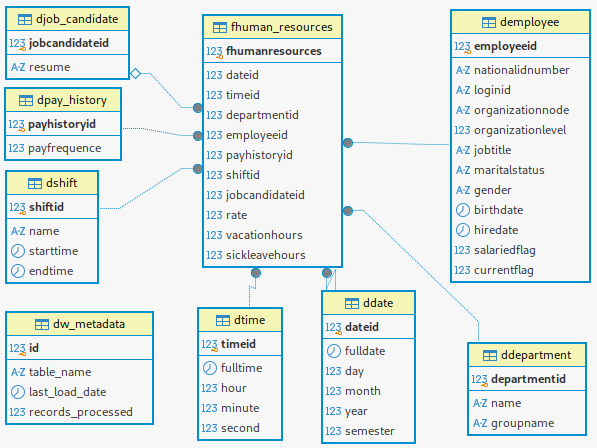
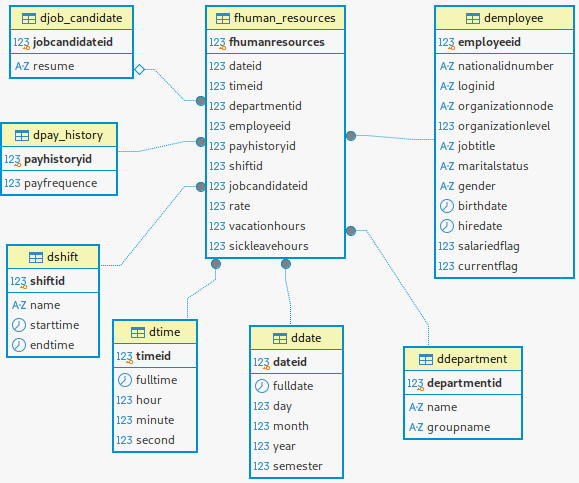
correção de problemas e melhorias

diff --git a/dags/dag_carga_dimensoes.py b/dags/dag_carga_dimensoes.py
@@ -1,6 +1,7 @@
 from datetime import datetime, timedelta
 import pandas as pd
 from airflow.decorators import dag, task
+from airflow.models import Variable
 from airflow.providers.microsoft.mssql.hooks.mssql import MsSqlHook
 from airflow.providers.postgres.hooks.postgres import PostgresHook
 
@@ -75,7 +76,10 @@ def pipeline_dimensoes():
         sql_hook = MsSqlHook(mssql_conn_id='sqlserver_oltp')
         pg_hook = PostgresHook(postgres_conn_id='postgres_olap')
 
-        query = """
+        ultima_data_func = Variable.get("ultima_data_carga_funcionarios", default_var="1900-01-01")
+        print(f"Buscando funcionários modificados após: {ultima_data_func}")
+
+        query = f"""
             SELECT
                 BusinessEntityID as EmployeeID,
                 NationalIDNumber,
@@ -89,9 +93,16 @@ def pipeline_dimensoes():
                 HireDate,
                 SalariedFlag,
                 CurrentFlag
-            FROM HumanResources.Employee;
+            FROM HumanResources.Employee
+            WHERE ModifiedDate > '{ultima_data_func}';
         """
+
         df = sql_hook.get_pandas_df(query)
+
+        if df.empty:
+            print("Nenhum dado novo encontrado para funcionários.")
+            return "Funcionários atualizados (Sem dados novos)"
+
         if not df.empty:
             df['LoginID'] = df['LoginID'].str.strip()
             df['JobTitle'] = df['JobTitle'].str.strip()
@@ -110,12 +121,18 @@ def pipeline_dimensoes():
             df = df[colunas_ordenadas]
             registros = df.to_records(index=False).tolist()
 
-            pg_hook.run("TRUNCATE TABLE dw.demployee RESTART IDENTITY CASCADE;")
             pg_hook.insert_rows(
                 table='dw.demployee',
                 rows=registros,
-                target_fields=colunas_ordenadas
+                target_fields=colunas_ordenadas,
+                replace=True,
+                replace_index='EmployeeID'
             )
+
+            nova_data_limite = datetime.now().strftime("%Y-%m-%d %H:%M:%S")
+            Variable.set("ultima_data_carga_funcionarios", nova_data_limite)
+            print(f"Variável 'ultima_data_carga_funcionarios' atualizada para: {nova_data_limite}")
+
         return "Funcionários carregados!"
 
     @task
@@ -133,7 +150,6 @@ def pipeline_dimensoes():
                 'Semester': (dates.month - 1) // 6 + 1
             })
             registros = df.to_records(index=False).tolist()
-            # Omitimos o DateID no target_fields pois ele é serial (gerado automaticamente pelo banco)
             pg_hook.insert_rows(
                 table='dw.ddate',
                 rows=registros,
@@ -155,7 +171,6 @@ def pipeline_dimensoes():
                 'Second': times.second
             })
             registros = df.to_records(index=False).tolist()
-            # Omitimos o TimeID no target_fields pois ele é serial (gerado automaticamente pelo banco)
             pg_hook.insert_rows(
                 table='dw.dtime',
                 rows=registros,
@@ -183,7 +198,6 @@ def pipeline_dimensoes():
             )
         return "Candidato padrão carregado!"
 
-    # Orquestração das tarefas
     dep = carregar_departamentos()
     shift = carregar_turnos()
     pay = carregar_pagamentos()

diff --git a/dags/dag_carga_fato.py b/dags/dag_carga_fato.py
@@ -53,16 +53,11 @@ def pipeline_fato():
         df_fato['FullDate'] = pd.to_datetime(df_fato['RateChangeDate']).dt.date.astype(str)
         df_fato['FullTime'] = pd.to_datetime(df_fato['RateChangeDate']).dt.time.astype(str)
 
-        #df_fato['RateChangeDate'] = df_fato['RateChangeDate'].astype(str)
-
-        #df_ddate = pg_hook.get_pandas_df("SELECT DateID, FullDate FROM dw.ddate;")
-        #df_dtime = pg_hook.get_pandas_df("SELECT TimeID, FullTime FROM dw.dtime;")
-
         df_ddate = pg_hook.get_pandas_df("SELECT DateID, FullDate FROM dw.ddate;")
-        df_ddate.columns = ['DateID', 'FullDate'] # Garante o nome correto no Pandas
+        df_ddate.columns = ['DateID', 'FullDate']
 
         df_dtime = pg_hook.get_pandas_df("SELECT TimeID, FullTime FROM dw.dtime;")
-        df_dtime.columns = ['TimeID', 'FullTime'] # Garante o nome correto no Pandas
+        df_dtime.columns = ['TimeID', 'FullTime']
 
         df_ddate['FullDate'] = df_ddate['FullDate'].astype(str)
         df_dtime['FullTime'] = df_dtime['FullTime'].astype(str)
@@ -87,18 +82,6 @@ def pipeline_fato():
 
         df_final = df_final[colunas_finais]
         registros_fato = df_final.to_records(index=False).tolist()
-
-        #colunas_fato = [
-        #    'EmployeeID', 'DepartmentID', 'ShiftID', 'PayHistoryID',
-        #    'JobCandidateID', 'RateChangeDate', 'Rate'
-        #]
-        #df_final = df_final[colunas_fato]
-        #registros_fato = df_final.to_records(index=False).tolist()
-
-        #colunas_postgres = [
-        #    'EmployeeID', 'DepartmentID', 'ShiftID', 'PayHistoryID',
-        #    'JobCandidateID', 'date', 'rate'
-        #]
 
         pg_hook.insert_rows(
             table='dw.fhuman_resources',
